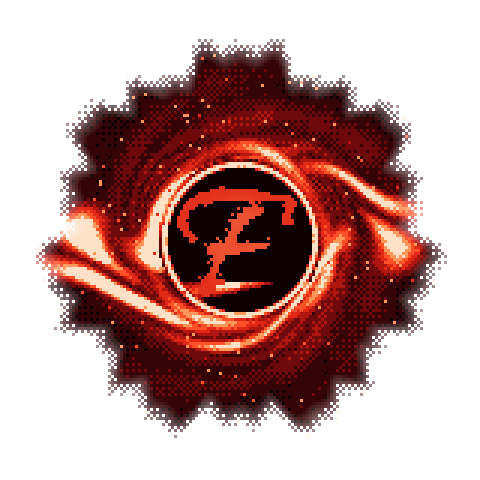
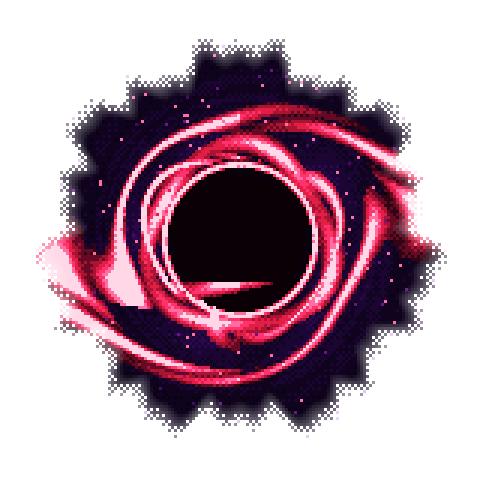
V19: F blackhole original purple/pink palette, stronger lensing, larger, slower smooth 100-frame loop

diff --git a/index.html b/index.html
@@ -8,6 +8,6 @@
 <button type="button" class="ui" id="back" hidden>fly home</button>
 <canvas id="sat" role="button" tabindex="0" title="Archive satellite"></canvas>
 <nav class="sr" aria-label="Sites"><a href="https://landrcy.github.io/binding-of-ashaad/">The Binding of Ashaad</a><a href="https://landrcy.github.io/sea-of-thought/">Sea of Thought</a><a href="https://landrcy.github.io/the-void/">The Void</a><a href="https://landrcy.github.io/pixel-museum/">Pixel Museum</a><a href="https://landrcy.github.io/wam/">W.A.M.</a><a href="https://landrcy.github.io/ttt/">Talk to Tung</a><a href="https://www.youtube.com/@Langrino">Langrino</a><a href="https://www.youtube.com/@clutchclipscrate">clutchclips</a><a href="https://www.youtube.com/@bowlfuloftrivia">bowlfuloftrivia</a><a href="https://www.youtube.com/channel/UCRegZeMyJ1B5B9n64rfgKAw">RedditStoryADay</a><a href="https://www.youtube.com/channel/UCfDhWTThokF3gKW03iEGijg">SAT in a Minute</a><a href="archive/">Archive</a></nav>
-<div id="hubver" aria-hidden="true"></div><script>/* Increment HUB_VERSION by 1 on every publish/update. */const HUB_VERSION=18;document.getElementById('hubver').textContent='V'+HUB_VERSION;</script>
+<div id="hubver" aria-hidden="true"></div><script>/* Increment HUB_VERSION by 1 on every publish/update. */const HUB_VERSION=19;document.getElementById('hubver').textContent='V'+HUB_VERSION;</script>
 <script src="world/planets.js"></script><script src="world/solar.js"></script><script src="world/museum.js"></script><script src="world/audio.js"></script><script src="world/galaxy.js"></script>
 </body></html>

diff --git a/world/galaxy.js b/world/galaxy.js
@@ -14,7 +14,7 @@ const BH_IN='world/assets/blackhole-f/bh-in.gif',BH_LOOP='world/assets/blackhole
 // world layout: blackhole at origin, the Omniverse orbits it on a flattened ring like the hub planets
 const CL_GIF='world/assets/clover/clover-planet.gif',CL_STILL='world/assets/clover/clover-planet.png';
 // F is 5x bigger; the clover planet orbits far out, Max Omniverse is its moon
-const BH_W=3800,CL_W=1300,ORB=4300,SQ=.6,OM_PER=70,OM_W=420,MO=980,MO_PER=16;
+const BH_W=4600,CL_W=1300,ORB=4300,SQ=.6,OM_PER=70,OM_W=420,MO=980,MO_PER=16;
 
 const worm=document.createElement('button');
 worm.type='button';worm.id='worm';
